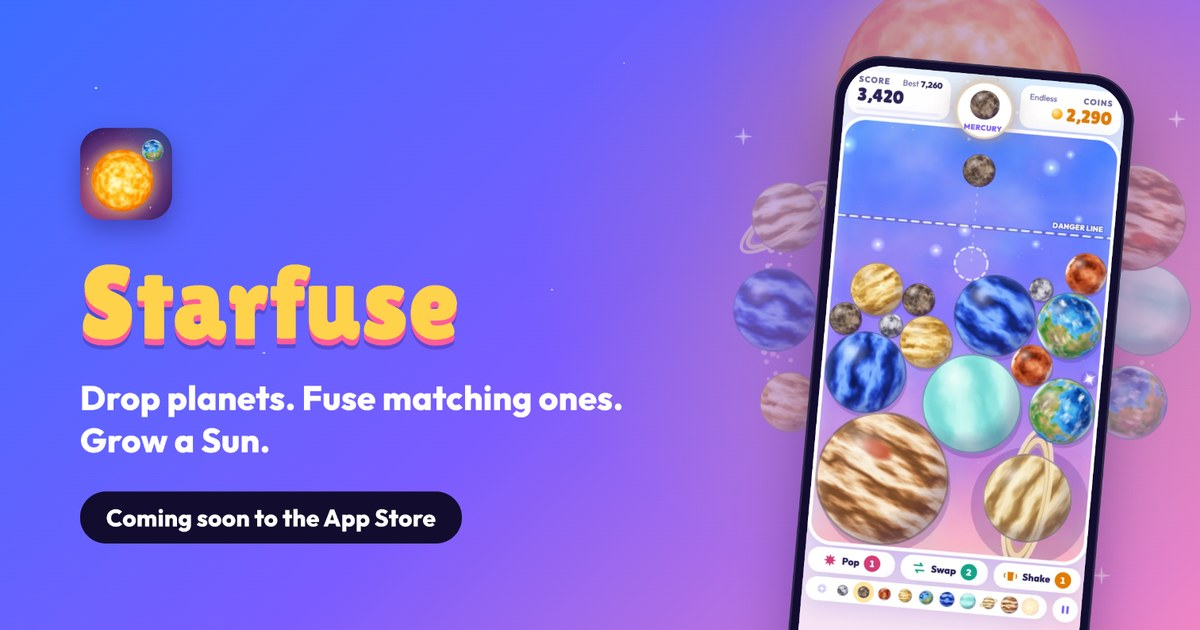
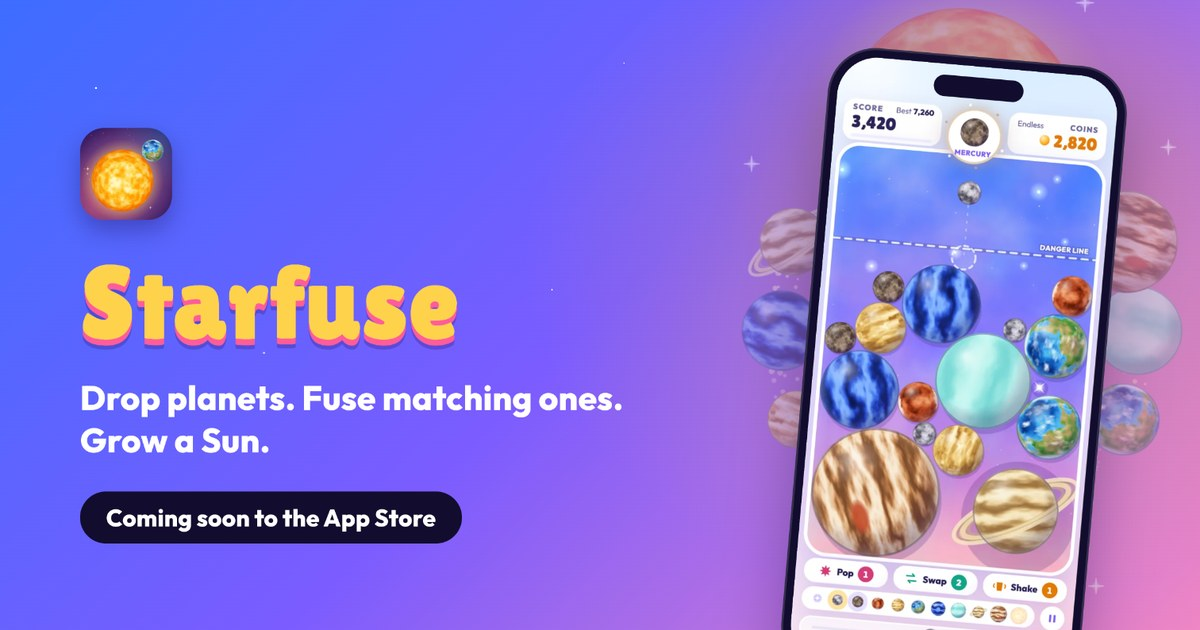
Site: themes showcase and full-screen iPhone captures
One phone switches between all nine themes (picker, arrows or swipe), with the colors,
text and eleven characters of each. The screenshots now fill the phone the way the app
does on an iPhone 15, with a Dynamic Island on the frame. New social preview to match.

Changed region(s): [[0.5858, 0.0, 1.0, 1.0]]

diff --git a/index.html b/index.html
@@ -30,6 +30,7 @@
         <a class="brand" href="./"><img src="./img/icon-256.webp" alt="" width="40" height="40"><span>Starfuse</span></a>
         <nav class="nav" aria-label="Site">
           <a class="opt" href="#how">How it plays</a>
+          <a class="opt" href="#themes">Themes</a>
           <a class="opt" href="#features">Features</a>
           <a href="./support.html">Support</a>
         </nav>
@@ -54,7 +55,7 @@
       </div>
       <div class="hero-art">
         <img class="planets" src="./img/planets-arc.webp" alt="" width="720" height="1106">
-        <div class="phone"><img src="./img/shot-play.webp" alt="A game of Starfuse: planets piled in a glass jar, with Jupiter and Saturn at the bottom and Mercury about to drop." width="580" height="1256"></div>
+        <div class="phone"><img src="./img/themes/cosmos.webp" alt="A game of Starfuse on an iPhone: planets piled in a glass jar, with Jupiter and Saturn at the bottom and the Moon about to drop." width="560" height="1214"></div>
       </div>
     </div>
   </div>
@@ -83,6 +84,43 @@
       </div>
     </section>
 
+    <!-- Nine themes, one phone: the picker (or a swipe, or the arrows) switches the screenshot, the colors and the
+         eleven characters. It moves on by itself while it's on screen, until someone picks a theme. -->
+    <section class="block wrap themes" id="themes">
+      <p class="kicker">Themes</p>
+      <h2>Play it in different themes</h2>
+      <p class="intro">Same planets, same rules, a whole new look. Unlock a theme with coins you earn by playing, or try any of
+        them for a run first.</p>
+      <div class="showcase">
+        <div class="stage">
+          <button class="arrow" type="button" id="themePrev" aria-label="Previous theme"><svg viewBox="0 0 24 24" aria-hidden="true"><path d="M15 5l-7 7 7 7" fill="none" stroke="currentColor" stroke-width="2.6" stroke-linecap="round" stroke-linejoin="round"/></svg></button>
+          <div class="phone" id="themePhone" role="tabpanel" aria-labelledby="themeName">
+            <img class="shot on" src="./img/themes/cosmos.webp" alt="Starfuse in the Cosmos theme: real planets piled in the jar." width="560" height="1214" loading="lazy">
+          </div>
+          <button class="arrow" type="button" id="themeNext" aria-label="Next theme"><svg viewBox="0 0 24 24" aria-hidden="true"><path d="M9 5l7 7-7 7" fill="none" stroke="currentColor" stroke-width="2.6" stroke-linecap="round" stroke-linejoin="round"/></svg></button>
+        </div>
+        <div class="theme-info">
+          <div class="picker" id="themePicker" role="tablist" aria-label="Themes">
+            <button type="button" role="tab" aria-selected="true" aria-controls="themePhone" data-theme="0"><img src="./img/themes/cosmos-icon.webp" alt="" width="48" height="48">Cosmos</button>
+            <button type="button" role="tab" aria-selected="false" aria-controls="themePhone" data-theme="1" tabindex="-1"><img src="./img/themes/candy-icon.webp" alt="" width="48" height="48">Candy Orbit</button>
+            <button type="button" role="tab" aria-selected="false" aria-controls="themePhone" data-theme="2" tabindex="-1"><img src="./img/themes/squishies-icon.webp" alt="" width="48" height="48">Squishies</button>
+            <button type="button" role="tab" aria-selected="false" aria-controls="themePhone" data-theme="3" tabindex="-1"><img src="./img/themes/plushies-icon.webp" alt="" width="48" height="48">Plushies</button>
+            <button type="button" role="tab" aria-selected="false" aria-controls="themePhone" data-theme="4" tabindex="-1"><img src="./img/themes/animals-icon.webp" alt="" width="48" height="48">Animal Pals</button>
+            <button type="button" role="tab" aria-selected="false" aria-controls="themePhone" data-theme="5" tabindex="-1"><img src="./img/themes/axolotls-icon.webp" alt="" width="48" height="48">Axolotls</button>
+            <button type="button" role="tab" aria-selected="false" aria-controls="themePhone" data-theme="6" tabindex="-1"><img src="./img/themes/pixel-icon.webp" alt="" width="48" height="48">Pixel Mine</button>
+            <button type="button" role="tab" aria-selected="false" aria-controls="themePhone" data-theme="7" tabindex="-1"><img src="./img/themes/fruits-icon.webp" alt="" width="48" height="48">Fruit Basket</button>
+            <button type="button" role="tab" aria-selected="false" aria-controls="themePhone" data-theme="8" tabindex="-1"><img src="./img/themes/squeeze-icon.webp" alt="" width="48" height="48">Squeeze Balls</button>
+          </div>
+          <div class="about">
+            <h3 id="themeName">Cosmos</h3>
+            <p id="themeDesc">The real Solar System, from Stardust all the way to the Sun.</p>
+            <img class="chainimg" id="themeChain" src="./img/themes/cosmos-chain.webp" alt="The eleven Cosmos characters, smallest to biggest." width="880" height="80" loading="lazy">
+            <div class="timer" aria-hidden="true"><i id="themeTimer"></i></div>
+          </div>
+        </div>
+      </div>
+    </section>
+
     <section class="block wrap" id="features">
       <p class="kicker">What’s inside</p>
       <h2>Something new every day</h2>
@@ -99,8 +137,8 @@
         </div>
         <div class="feature" style="--c: var(--violet)">
           <div class="ic"><svg viewBox="0 0 24 24" aria-hidden="true"><path d="M12 3a9 9 0 1 0 0 18c1.4 0 2-1 1.5-2.1-.6-1.2.2-2.4 1.6-2.4H18a3 3 0 0 0 3-3A8.6 8.6 0 0 0 12 3z" fill="none" stroke="currentColor" stroke-width="2"/><circle cx="7.5" cy="11" r="1.5" fill="currentColor"/><circle cx="11" cy="7.5" r="1.5" fill="currentColor"/><circle cx="15.5" cy="8.5" r="1.5" fill="currentColor"/></svg></div>
-          <h3>Nine themes</h3>
-          <p>Cosmos, Candy Orbit, Squishies, Plushies, Animal Pals, Axolotls, Pixel Mine, Fruit Basket and Squeeze Balls.</p>
+          <h3>Collect them all</h3>
+          <p>Discover every character in every theme for your Planetarium, with a coin bonus for each finished set.</p>
         </div>
         <div class="feature" style="--c: var(--sky)">
           <div class="ic"><svg viewBox="0 0 24 24" aria-hidden="true"><circle cx="12" cy="12" r="4" fill="currentColor"/><path d="M12 2v3M12 19v3M2 12h3M19 12h3M4.9 4.9l2.1 2.1M17 17l2.1 2.1M4.9 19.1L7 17M17 7l2.1-2.1" stroke="currentColor" stroke-width="2" stroke-linecap="round"/></svg></div>
@@ -117,25 +155,6 @@
           <h3>Made to feel good</h3>
           <p>Squishy landings, a little buzz on every fusion, and music that builds as the jar fills up.</p>
         </div>
-      </div>
-    </section>
-
-    <section class="block wrap" id="screens">
-      <p class="kicker">A look inside</p>
-      <h2>Small jar. Big universe.</h2>
-      <div class="shots">
-        <figure>
-          <div class="phone"><img src="./img/shot-play.webp" alt="Planets piled in the jar in the Cosmos theme." width="580" height="1256" loading="lazy"></div>
-          <figcaption>Fuse your way to the Sun</figcaption>
-        </figure>
-        <figure>
-          <div class="phone"><img src="./img/shot-theme.webp" alt="The same game in the Plushies theme: pandas, a koala, piggies and kittens fusing in the jar." width="580" height="1256" loading="lazy"></div>
-          <figcaption>Play it in nine themes</figcaption>
-        </figure>
-        <figure>
-          <div class="phone"><img src="./img/shot-menu.webp" alt="The Starfuse menu with today’s daily challenge and a 4-day streak." width="580" height="1256" loading="lazy"></div>
-          <figcaption>A new challenge every day</figcaption>
-        </figure>
       </div>
     </section>
 
@@ -169,6 +188,95 @@
         ' in Starfuse and dares you to beat it. Starfuse is coming soon to the App Store.');
       document.getElementById('challenge').hidden = false;
       history.replaceState(null, '', location.pathname + location.hash);
+    })();
+    // The themes showcase: one phone, nine themes. Captures of the game in site/img/themes (README, "The website").
+    (() => {
+      const THEMES = [
+        { id: 'cosmos', name: 'Cosmos', desc: 'The real Solar System, from Stardust all the way to the Sun.', tint: '#e9e4ff', accent: '#7b5cff', alt: 'real planets piled in the jar' },
+        { id: 'candy', name: 'Candy Orbit', desc: 'Pastel planets with happy faces.', tint: '#ffe3f1', accent: '#e4559c', alt: 'smiling pastel planets in a pink sky' },
+        { id: 'squishies', name: 'Squishies', desc: 'Wobbly kawaii sweets, from a sugar star to a rainbow mochi.', tint: '#ffe8ee', accent: '#e94f74', alt: 'mochi, donuts and strawberries in a frosted jar' },
+        { id: 'plushies', name: 'Plushies', desc: 'Soft toys with button eyes, up to a big teddy bear.', tint: '#ffeedd', accent: '#d9762c', alt: 'a koala, a panda, piggies and kittens on a picnic quilt' },
+        { id: 'animals', name: 'Animal Pals', desc: 'From a tiny mouse to the Capybara King.', tint: '#e2f4da', accent: '#3a8f35', alt: 'a lion, a sloth, a red panda and hedgehogs in a sunny meadow' },
+        { id: 'axolotls', name: 'Axolotls', desc: 'Axolotls in every color, up to a glowing one.', tint: '#d9f3fa', accent: '#138cab', alt: 'axolotls of every color under water' },
+        { id: 'pixel', name: 'Pixel Mine', desc: 'Chunky pixel blocks and ores, all the way down to diamond.', tint: '#e3e7f0', accent: '#4c5d80', alt: 'pixel blocks, lava and emerald in a mine' },
+        { id: 'fruits', name: 'Fruit Basket', desc: 'Juicy fruits, up to a prize-winning giant pumpkin.', tint: '#ffe8de', accent: '#d64c2a', alt: 'a watermelon, a pineapple, a dragon fruit and kiwis at a market stall' },
+        { id: 'squeeze', name: 'Squeeze Balls', desc: 'Stress balls in every shape. The wobbliest theme of all.', tint: '#ebe5ff', accent: '#7450ea', alt: 'a fuzzy ball with googly eyes, a gummy bear and squishy cubes' },
+      ];
+      const DURATION = 3800; // ms each theme stays while it moves on by itself
+      const root = document.getElementById('themes');
+      const phone = document.getElementById('themePhone');
+      const picker = document.getElementById('themePicker');
+      const tabs = [...picker.querySelectorAll('[role="tab"]')];
+      const timer = document.getElementById('themeTimer');
+      const reduce = matchMedia('(prefers-reduced-motion: reduce)').matches;
+      const shots = { cosmos: phone.querySelector('.shot') };
+      let cur = 0, auto = !reduce, inView = false, hovered = false, wait = 0;
+
+      const shot = (t) => {
+        if (!shots[t.id]) {
+          shots[t.id] = Object.assign(new Image(560, 1214), { className: 'shot', src: `./img/themes/${t.id}.webp`,
+            alt: `Starfuse in the ${t.name} theme: ${t.alt}.`, decoding: 'async' });
+          phone.append(shots[t.id]);
+        }
+        return shots[t.id];
+      };
+
+      function show(i, focus = false) {
+        cur = (i + THEMES.length) % THEMES.length;
+        const t = THEMES[cur], img = shot(t);
+        // The new picture fades in once it has loaded, so a quick jump never shows an empty screen.
+        const swap = () => { if (THEMES[cur] === t) for (const [id, el] of Object.entries(shots)) el.classList.toggle('on', id === t.id); };
+        img.complete ? swap() : img.addEventListener('load', swap, { once: true });
+        shot(THEMES[(cur + 1) % THEMES.length]); // the next one, ready in advance
+        tabs.forEach((b, j) => { b.setAttribute('aria-selected', String(j === cur)); b.tabIndex = j === cur ? 0 : -1; });
+        if (focus) tabs[cur].focus();
+        // Keep the chosen chip in view on phones, where the picker scrolls sideways (never scrolls the page).
+        const b = tabs[cur];
+        picker.scrollTo({ left: b.offsetLeft - (picker.clientWidth - b.offsetWidth) / 2, behavior: reduce ? 'auto' : 'smooth' });
+        root.style.setProperty('--tint', t.tint);
+        root.style.setProperty('--accent', t.accent);
+        document.getElementById('themeName').textContent = t.name;
+        document.getElementById('themeDesc').textContent = t.desc;
+        Object.assign(document.getElementById('themeChain'), { src: `./img/themes/${t.id}-chain.webp`, alt: `The eleven ${t.name} characters, smallest to biggest.` });
+        run();
+      }
+
+      // Moving on by itself: only on screen, not under the mouse, and never again once someone picks a theme.
+      function run() {
+        clearTimeout(wait);
+        timer.classList.remove('run');
+        root.classList.toggle('manual', !auto);
+        if (!auto || !inView || hovered) return;
+        void timer.offsetWidth; // restart the bar's animation
+        timer.style.animationDuration = `${DURATION}ms`;
+        timer.classList.add('run');
+        wait = setTimeout(() => show(cur + 1), DURATION);
+      }
+      const pick = (i, focus) => { auto = false; show(i, focus); };
+
+      tabs.forEach((b, i) => b.addEventListener('click', () => pick(i)));
+      picker.addEventListener('keydown', (e) => {
+        const to = { ArrowRight: cur + 1, ArrowDown: cur + 1, ArrowLeft: cur - 1, ArrowUp: cur - 1, Home: 0, End: THEMES.length - 1 }[e.key];
+        if (to === undefined) return;
+        e.preventDefault();
+        pick(to, true);
+      });
+      document.getElementById('themePrev').addEventListener('click', () => pick(cur - 1));
+      document.getElementById('themeNext').addEventListener('click', () => pick(cur + 1));
+      // A sideways swipe on the phone changes the theme.
+      let downX = null;
+      phone.addEventListener('pointerdown', (e) => { downX = e.clientX; });
+      phone.addEventListener('pointerup', (e) => {
+        if (downX === null) return;
+        const dx = e.clientX - downX;
+        downX = null;
+        if (Math.abs(dx) > 40) pick(cur + (dx < 0 ? 1 : -1));
+      });
+      const showcase = root.querySelector('.showcase');
+      showcase.addEventListener('pointerenter', (e) => { if (e.pointerType === 'mouse') { hovered = true; run(); } });
+      showcase.addEventListener('pointerleave', (e) => { if (e.pointerType === 'mouse') { hovered = false; run(); } });
+      new IntersectionObserver(([entry]) => { inView = entry.isIntersecting; run(); }, { threshold: 0.4 }).observe(showcase);
+      show(0);
     })();
     // The game used to run here with an offline service worker; let go of it (sw.js clears its caches too).
     navigator.serviceWorker?.getRegistrations?.().then((list) => list.forEach((r) => r.unregister())).catch(() => {});

diff --git a/site.css b/site.css
@@ -102,13 +102,23 @@ p { margin: 0; }
 .challenge b { color: var(--violet); }
 .challenge .trophy { flex: none; font-size: 26px; }
 
-/* A phone with a screenshot: the frame is CSS, the picture a real capture of the game. */
+/* A phone with a screenshot: the frame and the Dynamic Island are CSS, the picture a real capture of the game at
+   iPhone 15 size (393 x 852, with the room the app leaves for the island and the home bar). Pictures stack, so the
+   themes showcase can cross-fade between them. */
 .phone {
-  position: relative; width: min(300px, 74vw); aspect-ratio: 390 / 844; margin-inline: auto;
-  padding: 10px; border-radius: 46px; background: #120d2e;
-  box-shadow: 0 30px 60px rgba(20, 8, 70, .35), inset 0 0 0 2px rgba(255, 255, 255, .12);
+  /* A 3.2% bezel (margins are a share of the width on every side) around a 393:852 screen: 1 : 2.093 overall. */
+  position: relative; width: min(300px, 74vw); aspect-ratio: 1000 / 2093; margin-inline: auto; flex: none;
+  border-radius: 48px; background: #120d2e;
+  box-shadow: 0 30px 60px rgba(20, 8, 70, .35), inset 0 0 0 2px rgba(255, 255, 255, .14);
 }
-.phone img { width: 100%; height: 100%; object-fit: cover; border-radius: 37px; background: #ebe4ff; }
+.phone::after { /* the Dynamic Island, in the room the app leaves above the game */
+  content: ""; position: absolute; z-index: 2; top: 3.3%; left: 50%; width: 30%; height: 3.4%;
+  transform: translateX(-50%); border-radius: 999px; background: #120d2e;
+}
+.phone img {
+  position: absolute; top: 0; left: 0; margin: 3.2%; width: 93.6%; height: auto; aspect-ratio: 393 / 852; max-width: none;
+  object-fit: cover; border-radius: 40px; background: #ebe4ff;
+}
 .hero .phone { transform: rotate(3deg); }
 .hero-art { position: relative; }
 .hero-art .planets {
@@ -149,10 +159,49 @@ section.block { padding: 88px 0 0; }
 .feature h3 { margin-top: 16px; font-size: 24px; }
 .feature p { margin-top: 8px; color: var(--dim); }
 
-.shots { display: grid; grid-template-columns: repeat(3, 1fr); gap: 28px; margin-top: 44px; }
-.shots figure { margin: 0; }
-.shots .phone { width: 100%; max-width: 280px; }
-.shots figcaption { margin-top: 16px; text-align: center; font-weight: 600; color: var(--dim); }
+/* ---------- themes showcase ---------- */
+/* Registered, so the section's colors glide from one theme to the next (index.html sets them per theme). */
+@property --tint { syntax: "<color>"; inherits: true; initial-value: #e9e4ff; }
+@property --accent { syntax: "<color>"; inherits: true; initial-value: #7b5cff; }
+.themes { transition: --tint .7s ease, --accent .7s ease; }
+.showcase {
+  display: grid; grid-template-columns: auto minmax(0, 1fr); gap: 48px; align-items: center; margin-top: 40px;
+  padding: 44px clamp(20px, 4vw, 56px); border-radius: 40px; box-shadow: var(--shadow);
+  background:
+    radial-gradient(60% 80% at 22% 40%, rgba(255, 255, 255, .85), transparent 70%),
+    radial-gradient(50% 60% at 100% 100%, rgba(255, 255, 255, .5), transparent 70%),
+    var(--tint);
+}
+.stage { display: flex; align-items: center; gap: 18px; }
+.stage .phone { width: 290px; touch-action: pan-y; }
+.stage .phone img { opacity: 0; transform: scale(1.025); transition: opacity .5s ease, transform .7s ease; }
+.stage .phone img.on { opacity: 1; transform: none; }
+.arrow {
+  display: grid; place-items: center; flex: none; width: 48px; height: 48px; border: 0; border-radius: 50%;
+  color: var(--accent); background: #fff; box-shadow: 0 6px 16px rgba(40, 20, 120, .14); cursor: pointer;
+  transition: transform .15s, box-shadow .15s;
+}
+.arrow:hover { transform: scale(1.06); box-shadow: 0 8px 20px rgba(40, 20, 120, .2); }
+.arrow svg { width: 22px; height: 22px; }
+.picker { display: grid; grid-template-columns: repeat(3, minmax(0, 1fr)); gap: 10px; }
+.picker button {
+  display: flex; align-items: center; gap: 10px; min-width: 0; padding: 7px 12px 7px 7px; border: 0; border-radius: 18px;
+  font: 700 15px/1.2 var(--body); color: var(--ink); text-align: left; background: rgba(255, 255, 255, .62); cursor: pointer;
+  box-shadow: inset 0 0 0 2px transparent; transition: background .2s, box-shadow .2s, transform .15s;
+}
+.picker button:hover { background: rgba(255, 255, 255, .9); }
+.picker button img { flex: none; width: 40px; height: 40px; border-radius: 50%; background: #fff; }
+.picker button[aria-selected="true"] { background: #fff; box-shadow: inset 0 0 0 2.5px var(--accent), 0 8px 18px rgba(40, 20, 120, .12); }
+.picker button:focus-visible { outline: 3px solid var(--sun); outline-offset: 2px; }
+.about { margin-top: 22px; padding: 22px 24px 20px; border-radius: 26px; background: #fff; box-shadow: 0 10px 28px rgba(40, 20, 120, .08); }
+.about h3 { font-size: clamp(28px, 3vw, 36px); color: var(--accent); }
+.about p { margin-top: 6px; color: var(--dim); }
+.chainimg { width: 100%; margin-top: 16px; }
+.timer { height: 4px; margin-top: 16px; border-radius: 4px; background: var(--line); overflow: hidden; transition: opacity .3s; }
+.timer i { display: block; width: 0; height: 100%; background: var(--accent); }
+.timer i.run { animation: themeTimer linear forwards; }
+.manual .timer { opacity: 0; }
+@keyframes themeTimer { to { width: 100%; } }
 
 .closing {
   margin-top: 96px; padding: 48px 32px; border-radius: 36px; text-align: center; color: #fff;
@@ -186,15 +235,26 @@ section.block { padding: 88px 0 0; }
   .steps, .features { grid-template-columns: 1fr 1fr; }
   .chain { grid-template-columns: 1fr; text-align: center; }
   .chain ol { justify-content: center; }
+  /* The showcase stacks: the phone, then the picker as one sideways-scrolling row, then the theme's card. */
+  .showcase { grid-template-columns: minmax(0, 1fr); gap: 28px; padding: 32px 0 24px; }
+  .stage { justify-content: center; }
+  .picker {
+    display: flex; overflow-x: auto; scroll-snap-type: x mandatory; scrollbar-width: none;
+    padding: 4px 20px 6px; scroll-padding-inline: 20px;
+  }
+  .picker::-webkit-scrollbar { display: none; }
+  .picker button { flex: none; scroll-snap-align: center; }
+  .about { margin: 18px 20px 0; text-align: center; }
 }
 @media (max-width: 620px) {
   body { font-size: 16px; }
   .nav a { padding: 6px 9px; font-size: 14px; }
   .nav .opt { display: none; }
   .steps, .features { grid-template-columns: 1fr; }
-  .shots { grid-template-columns: 1fr; gap: 36px; }
-  .shots .phone { max-width: 260px; }
   section.block { padding-top: 64px; }
+  .stage { gap: 8px; }
+  .stage .phone { width: min(250px, 62vw); }
+  .arrow { width: 40px; height: 40px; }
   .chain { padding: 24px 18px; }
   .closing { padding: 40px 20px; }
 }
